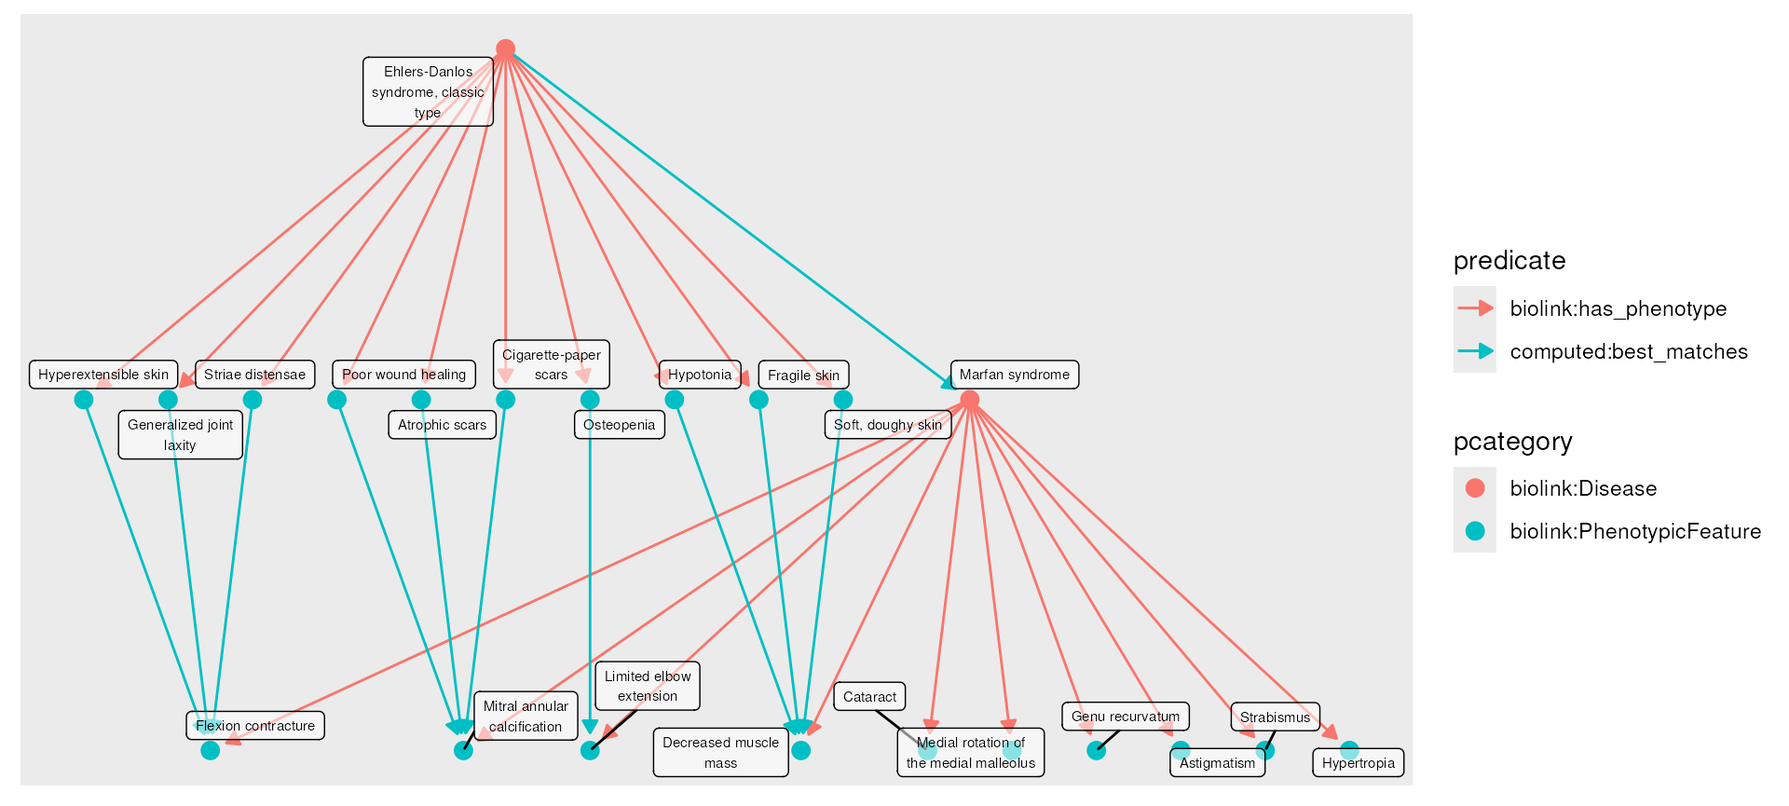
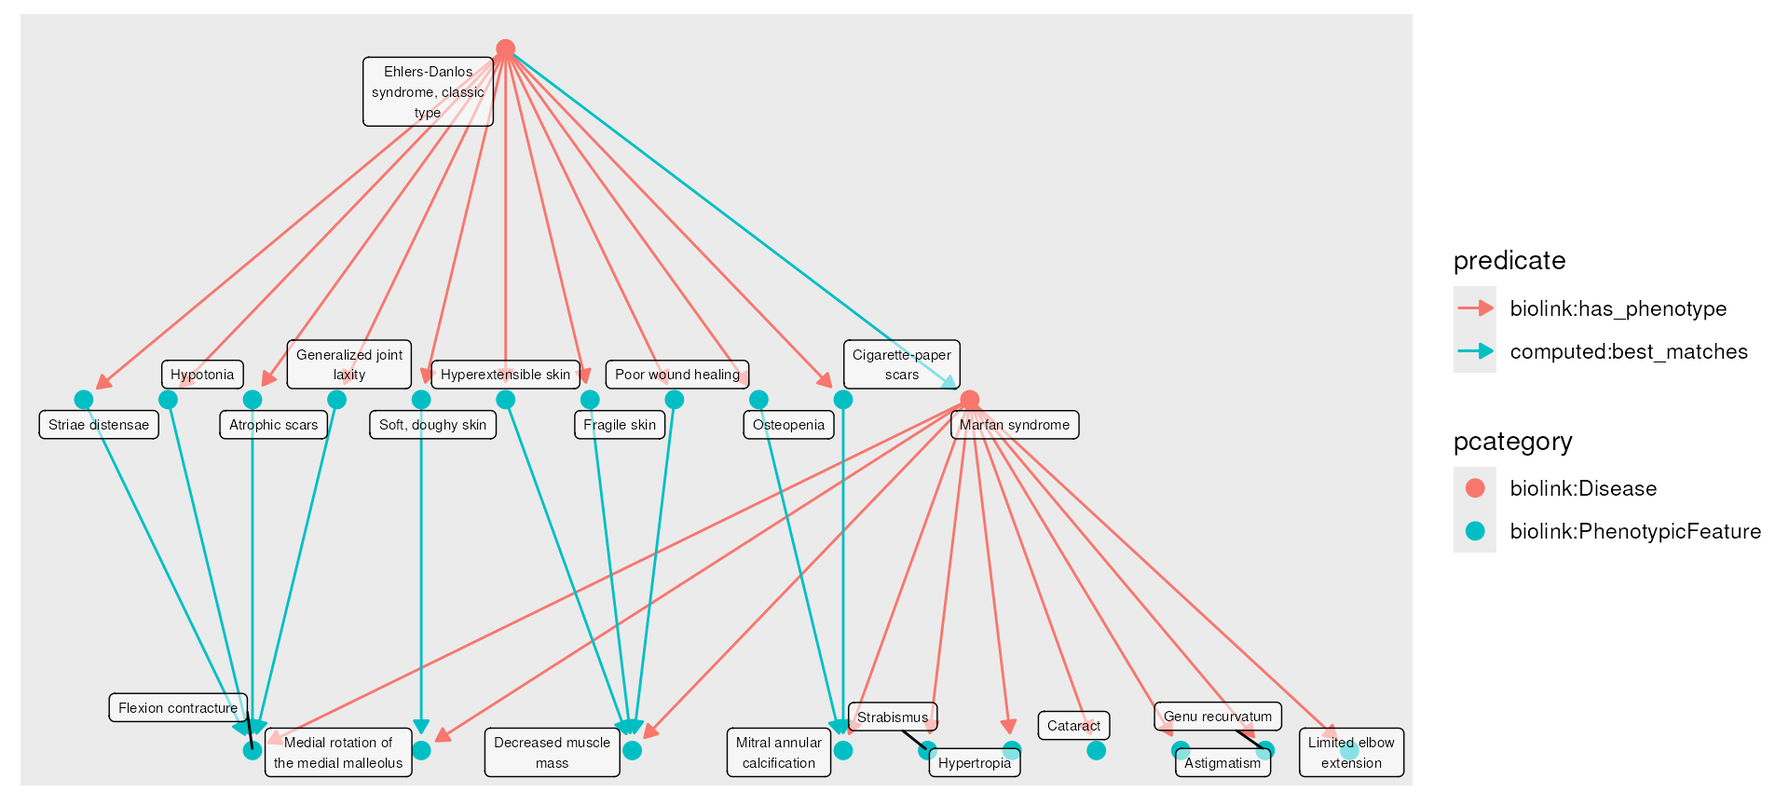
Deploying to gh-pages from @ monarch-initiative/monarchr@e125b6aafd9b1183b28d8fca9d9c85349e991785 🚀

Changed region(s): [[0.0, 0.4058, 0.7812, 0.9676]]

diff --git a/reference/monarch_semsim.html b/reference/monarch_semsim.html
@@ -61,7 +61,7 @@ https://monarchinitiative.org/explore#phenotype-explorer."><!-- mathjax --><scri
   <div class="col-md-9 contents">
     <div class="page-header">
     <h1>Semantic similarity mapping between two graphs</h1>
-    <small class="dont-index">Source: <a href="https://github.com/monarch-initiative/monarchr/blob/fix_self_loop_plot/R/monarch_semsim.R" class="external-link"><code>R/monarch_semsim.R</code></a></small>
+    <small class="dont-index">Source: <a href="https://github.com/monarch-initiative/monarchr/blob/main/R/monarch_semsim.R" class="external-link"><code>R/monarch_semsim.R</code></a></small>
     <div class="hidden name"><code>monarch_semsim.Rd</code></div>
     </div>
 
@@ -148,11 +148,11 @@ the best matches from the second graph to the first graph.</p>
 <span class="r-msg co"><span class="r-pr">#&gt;</span> Joining with `by = join_by(id, category, pcategory, name, description, synonym,</span>
 <span class="r-msg co"><span class="r-pr">#&gt;</span> iri, xref, namespace, provided_by)`</span>
 <span class="r-in"><span><span class="fu"><a href="https://rdrr.io/r/base/print.html" class="external-link">print</a></span><span class="op">(</span><span class="va">sim</span><span class="op">)</span></span></span>
-<span class="r-out co"><span class="r-pr">#&gt;</span> <span style="color: #949494;"># A tbl_graph: 133 nodes and 106 edges</span></span>
+<span class="r-out co"><span class="r-pr">#&gt;</span> <span style="color: #949494;"># A tbl_graph: 135 nodes and 106 edges</span></span>
 <span class="r-out co"><span class="r-pr">#&gt;</span> <span style="color: #949494;">#</span></span>
-<span class="r-out co"><span class="r-pr">#&gt;</span> <span style="color: #949494;"># A directed multigraph with 39 components</span></span>
+<span class="r-out co"><span class="r-pr">#&gt;</span> <span style="color: #949494;"># A directed multigraph with 41 components</span></span>
 <span class="r-out co"><span class="r-pr">#&gt;</span> <span style="color: #949494;">#</span></span>
-<span class="r-out co"><span class="r-pr">#&gt;</span> <span style="color: #949494;"># Node Data: 133 × 10 (active)</span></span>
+<span class="r-out co"><span class="r-pr">#&gt;</span> <span style="color: #949494;"># Node Data: 135 × 10 (active)</span></span>
 <span class="r-out co"><span class="r-pr">#&gt;</span>    id         pcategory name  description synonym category iri   xref  namespace</span>
 <span class="r-out co"><span class="r-pr">#&gt;</span>    <span style="color: #949494; font-style: italic;">&lt;chr&gt;</span>      <span style="color: #949494; font-style: italic;">&lt;chr&gt;</span>     <span style="color: #949494; font-style: italic;">&lt;chr&gt;</span> <span style="color: #949494; font-style: italic;">&lt;chr&gt;</span>       <span style="color: #949494; font-style: italic;">&lt;named&gt;</span> <span style="color: #949494; font-style: italic;">&lt;list&gt;</span>   <span style="color: #949494; font-style: italic;">&lt;chr&gt;</span> <span style="color: #949494; font-style: italic;">&lt;nam&gt;</span> <span style="color: #949494; font-style: italic;">&lt;chr&gt;</span>    </span>
 <span class="r-out co"><span class="r-pr">#&gt;</span> <span style="color: #BCBCBC;"> 1</span> MONDO:000… biolink:… Marf… A disorder… <span style="color: #949494;">&lt;chr&gt;</span>   <span style="color: #949494;">&lt;chr&gt;</span>    http… <span style="color: #949494;">&lt;chr&gt;</span> MONDO    </span>
@@ -165,15 +165,15 @@ the best matches from the second graph to the first graph.</p>
 <span class="r-out co"><span class="r-pr">#&gt;</span> <span style="color: #BCBCBC;"> 8</span> HP:0025586 biolink:… Hype… A type of … <span style="color: #949494;">&lt;lgl&gt;</span>   <span style="color: #949494;">&lt;chr&gt;</span>    http… <span style="color: #949494;">&lt;lgl&gt;</span> HP       </span>
 <span class="r-out co"><span class="r-pr">#&gt;</span> <span style="color: #BCBCBC;"> 9</span> HP:0000518 biolink:… Cata… A cataract… <span style="color: #949494;">&lt;chr&gt;</span>   <span style="color: #949494;">&lt;chr&gt;</span>    http… <span style="color: #949494;">&lt;chr&gt;</span> HP       </span>
 <span class="r-out co"><span class="r-pr">#&gt;</span> <span style="color: #BCBCBC;">10</span> HP:0008132 biolink:… Medi… <span style="color: #BB0000;">NA</span>          <span style="color: #949494;">&lt;lgl&gt;</span>   <span style="color: #949494;">&lt;chr&gt;</span>    http… <span style="color: #949494;">&lt;chr&gt;</span> HP       </span>
-<span class="r-out co"><span class="r-pr">#&gt;</span> <span style="color: #949494;"># ℹ 123 more rows</span></span>
+<span class="r-out co"><span class="r-pr">#&gt;</span> <span style="color: #949494;"># ℹ 125 more rows</span></span>
 <span class="r-out co"><span class="r-pr">#&gt;</span> <span style="color: #949494;"># ℹ 1 more variable: provided_by &lt;named list&gt;</span></span>
 <span class="r-out co"><span class="r-pr">#&gt;</span> <span style="color: #949494;">#</span></span>
 <span class="r-out co"><span class="r-pr">#&gt;</span> <span style="color: #949494;"># Edge Data: 106 × 8</span></span>
 <span class="r-out co"><span class="r-pr">#&gt;</span>    from    to subject    predicate             object   metric score ancestor_id</span>
 <span class="r-out co"><span class="r-pr">#&gt;</span>   <span style="color: #949494; font-style: italic;">&lt;int&gt;</span> <span style="color: #949494; font-style: italic;">&lt;int&gt;</span> <span style="color: #949494; font-style: italic;">&lt;chr&gt;</span>      <span style="color: #949494; font-style: italic;">&lt;chr&gt;</span>                 <span style="color: #949494; font-style: italic;">&lt;chr&gt;</span>    <span style="color: #949494; font-style: italic;">&lt;chr&gt;</span>  <span style="color: #949494; font-style: italic;">&lt;dbl&gt;</span> <span style="color: #949494; font-style: italic;">&lt;chr&gt;</span>      </span>
-<span class="r-out co"><span class="r-pr">#&gt;</span> <span style="color: #BCBCBC;">1</span>   106   117 HP:0000006 computed:best_matches HP:0001… ances…  4.10 HP:0000001 </span>
+<span class="r-out co"><span class="r-pr">#&gt;</span> <span style="color: #BCBCBC;">1</span>   106    39 HP:0000006 computed:best_matches HP:0001… ances…  4.10 HP:0000001 </span>
 <span class="r-out co"><span class="r-pr">#&gt;</span> <span style="color: #BCBCBC;">2</span>    83    83 HP:0000023 computed:best_matches HP:0000… ances… 18.2  HP:0000023 </span>
-<span class="r-out co"><span class="r-pr">#&gt;</span> <span style="color: #BCBCBC;">3</span>    23   113 HP:0000098 computed:best_matches HP:0000… ances…  5.96 UPHENO:006…</span>
+<span class="r-out co"><span class="r-pr">#&gt;</span> <span style="color: #BCBCBC;">3</span>    23   115 HP:0000098 computed:best_matches HP:0000… ances…  5.96 UPHENO:006…</span>
 <span class="r-out co"><span class="r-pr">#&gt;</span> <span style="color: #949494;"># ℹ 103 more rows</span></span>
 <span class="r-in"><span></span></span>
 <span class="r-in"><span><span class="co"># also inclue the unmatched targets</span></span></span>
@@ -204,7 +204,7 @@ the best matches from the second graph to the first graph.</p>
 <span class="r-out co"><span class="r-pr">#&gt;</span> <span style="color: #949494;"># Edge Data: 106 × 8</span></span>
 <span class="r-out co"><span class="r-pr">#&gt;</span>    from    to subject    predicate             object   metric score ancestor_id</span>
 <span class="r-out co"><span class="r-pr">#&gt;</span>   <span style="color: #949494; font-style: italic;">&lt;int&gt;</span> <span style="color: #949494; font-style: italic;">&lt;int&gt;</span> <span style="color: #949494; font-style: italic;">&lt;chr&gt;</span>      <span style="color: #949494; font-style: italic;">&lt;chr&gt;</span>                 <span style="color: #949494; font-style: italic;">&lt;chr&gt;</span>    <span style="color: #949494; font-style: italic;">&lt;chr&gt;</span>  <span style="color: #949494; font-style: italic;">&lt;dbl&gt;</span> <span style="color: #949494; font-style: italic;">&lt;chr&gt;</span>      </span>
-<span class="r-out co"><span class="r-pr">#&gt;</span> <span style="color: #BCBCBC;">1</span>   106   122 HP:0000006 computed:best_matches HP:0012… ances…  4.10 HP:0000001 </span>
+<span class="r-out co"><span class="r-pr">#&gt;</span> <span style="color: #BCBCBC;">1</span>   106    39 HP:0000006 computed:best_matches HP:0001… ances…  4.10 HP:0000001 </span>
 <span class="r-out co"><span class="r-pr">#&gt;</span> <span style="color: #BCBCBC;">2</span>    83    83 HP:0000023 computed:best_matches HP:0000… ances… 18.2  HP:0000023 </span>
 <span class="r-out co"><span class="r-pr">#&gt;</span> <span style="color: #BCBCBC;">3</span>    23   125 HP:0000098 computed:best_matches HP:0000… ances…  5.96 UPHENO:006…</span>
 <span class="r-out co"><span class="r-pr">#&gt;</span> <span style="color: #949494;"># ℹ 103 more rows</span></span>
@@ -216,7 +216,7 @@ the best matches from the second graph to the first graph.</p>
 <span class="r-in"><span><span class="fu"><a href="https://rdrr.io/r/base/print.html" class="external-link">print</a></span><span class="op">(</span><span class="va">sim</span><span class="op">)</span></span></span>
 <span class="r-out co"><span class="r-pr">#&gt;</span> <span style="color: #949494;"># A tbl_graph: 161 nodes and 173 edges</span></span>
 <span class="r-out co"><span class="r-pr">#&gt;</span> <span style="color: #949494;">#</span></span>
-<span class="r-out co"><span class="r-pr">#&gt;</span> <span style="color: #949494;"># A directed multigraph with 30 components</span></span>
+<span class="r-out co"><span class="r-pr">#&gt;</span> <span style="color: #949494;"># A directed multigraph with 28 components</span></span>
 <span class="r-out co"><span class="r-pr">#&gt;</span> <span style="color: #949494;">#</span></span>
 <span class="r-out co"><span class="r-pr">#&gt;</span> <span style="color: #949494;"># Node Data: 161 × 10 (active)</span></span>
 <span class="r-out co"><span class="r-pr">#&gt;</span>    id         pcategory name  description synonym category iri   xref  namespace</span>
@@ -237,7 +237,7 @@ the best matches from the second graph to the first graph.</p>
 <span class="r-out co"><span class="r-pr">#&gt;</span> <span style="color: #949494;"># Edge Data: 173 × 8</span></span>
 <span class="r-out co"><span class="r-pr">#&gt;</span>    from    to subject    predicate             object   metric score ancestor_id</span>
 <span class="r-out co"><span class="r-pr">#&gt;</span>   <span style="color: #949494; font-style: italic;">&lt;int&gt;</span> <span style="color: #949494; font-style: italic;">&lt;int&gt;</span> <span style="color: #949494; font-style: italic;">&lt;chr&gt;</span>      <span style="color: #949494; font-style: italic;">&lt;chr&gt;</span>                 <span style="color: #949494; font-style: italic;">&lt;chr&gt;</span>    <span style="color: #949494; font-style: italic;">&lt;chr&gt;</span>  <span style="color: #949494; font-style: italic;">&lt;dbl&gt;</span> <span style="color: #949494; font-style: italic;">&lt;chr&gt;</span>      </span>
-<span class="r-out co"><span class="r-pr">#&gt;</span> <span style="color: #BCBCBC;">1</span>   106   116 HP:0000006 computed:best_matches HP:0002… ances…  4.10 HP:0000001 </span>
+<span class="r-out co"><span class="r-pr">#&gt;</span> <span style="color: #BCBCBC;">1</span>   106   115 HP:0000006 computed:best_matches HP:0001… ances…  4.10 HP:0000001 </span>
 <span class="r-out co"><span class="r-pr">#&gt;</span> <span style="color: #BCBCBC;">2</span>    83    83 HP:0000023 computed:best_matches HP:0000… ances… 18.2  HP:0000023 </span>
 <span class="r-out co"><span class="r-pr">#&gt;</span> <span style="color: #BCBCBC;">3</span>    23   125 HP:0000098 computed:best_matches HP:0000… ances…  5.96 UPHENO:006…</span>
 <span class="r-out co"><span class="r-pr">#&gt;</span> <span style="color: #949494;"># ℹ 170 more rows</span></span>

diff --git a/articles/monarchr.html b/articles/monarchr.html
@@ -93,7 +93,7 @@ O’Neil</h4>
 <i>Jul-29-2024</i>
 </h4>
       
-      <small class="dont-index">Source: <a href="https://github.com/monarch-initiative/monarchr/blob/fix_self_loop_plot/vignettes/monarchr.Rmd" class="external-link"><code>vignettes/monarchr.Rmd</code></a></small>
+      <small class="dont-index">Source: <a href="https://github.com/monarch-initiative/monarchr/blob/main/vignettes/monarchr.Rmd" class="external-link"><code>vignettes/monarchr.Rmd</code></a></small>
       <div class="hidden name"><code>monarchr.Rmd</code></div>
 
     </div>
@@ -6244,42 +6244,6 @@ c(“DOID:14323”, “GARD:16535”, “ICD9:759.82”, “MESH:D008382”,
 </tr>
 <tr>
 <td style="text-align:left;">
-“HP:0001377”
-</td>
-<td style="text-align:left;">
-“biolink:PhenotypicFeature”
-</td>
-<td style="text-align:left;">
-“Limited elbow extension”
-</td>
-<td style="text-align:left;min-width: 300px; ">
-“Limited ability to straighten the arm at the elbow joint.”
-</td>
-<td style="text-align:left;min-width: 300px; ">
-c(“Decreased elbow extension”, “Elbow limited extension”, “Limitation of
-elbow extension”, “Limited elbow extension”, “Limited extension at
-elbows”, “Limited forearm extension”, “Restricted elbow extension”)
-</td>
-<td style="text-align:left;">
-c(“biolink:BiologicalEntity”, “biolink:DiseaseOrPhenotypicFeature”,
-“biolink:Entity”, “biolink:NamedThing”, “biolink:PhenotypicFeature”,
-“biolink:ThingWithTaxon”)
-</td>
-<td style="text-align:left;">
-“<a href="http://purl.obolibrary.org/obo/HP_0001377" class="external-link uri">http://purl.obolibrary.org/obo/HP_0001377</a>”
-</td>
-<td style="text-align:left;">
-“UMLS:C1867103”
-</td>
-<td style="text-align:left;">
-“HP”
-</td>
-<td style="text-align:left;">
-“phenio_nodes”
-</td>
-</tr>
-<tr>
-<td style="text-align:left;">
 “HP:0005136”
 </td>
 <td style="text-align:left;">
@@ -6388,6 +6352,40 @@ c(“biolink:BiologicalEntity”, “biolink:DiseaseOrPhenotypicFeature”,
 “phenio_nodes”
 </td>
 </tr>
+<tr>
+<td style="text-align:left;">
+“HP:0008132”
+</td>
+<td style="text-align:left;">
+“biolink:PhenotypicFeature”
+</td>
+<td style="text-align:left;">
+“Medial rotation of the medial malleolus”
+</td>
+<td style="text-align:left;min-width: 300px; ">
+NA
+</td>
+<td style="text-align:left;min-width: 300px; ">
+NA
+</td>
+<td style="text-align:left;">
+c(“biolink:BiologicalEntity”, “biolink:DiseaseOrPhenotypicFeature”,
+“biolink:Entity”, “biolink:NamedThing”, “biolink:PhenotypicFeature”,
+“biolink:ThingWithTaxon”)
+</td>
+<td style="text-align:left;">
+“<a href="http://purl.obolibrary.org/obo/HP_0008132" class="external-link uri">http://purl.obolibrary.org/obo/HP_0008132</a>”
+</td>
+<td style="text-align:left;">
+“UMLS:C3805726”
+</td>
+<td style="text-align:left;">
+“HP”
+</td>
+<td style="text-align:left;">
+“phenio_nodes”
+</td>
+</tr>
 </tbody>
 </table>
 </div>
@@ -6438,7 +6436,7 @@ ancestor_id
 “computed:best_matches”
 </td>
 <td style="text-align:left;">
-“HP:0001377”
+“HP:0005136”
 </td>
 <td style="text-align:left;">
 “ancestor_information_content”
@@ -6464,7 +6462,7 @@ ancestor_id
 “computed:best_matches”
 </td>
 <td style="text-align:left;">
-“HP:0001371”
+“HP:0003199”
 </td>
 <td style="text-align:left;">
 “ancestor_information_content”
@@ -6490,7 +6488,7 @@ ancestor_id
 “computed:best_matches”
 </td>
 <td style="text-align:left;">
-“HP:0003199”
+“HP:0008132”
 </td>
 <td style="text-align:left;">
 “ancestor_information_content”
@@ -6507,7 +6505,7 @@ ancestor_id
 4
 </td>
 <td style="text-align:left;">
-16
+15
 </td>
 <td style="text-align:left;">
 “HP:0001030”
@@ -6533,7 +6531,7 @@ ancestor_id
 10
 </td>
 <td style="text-align:left;">
-14
+15
 </td>
 <td style="text-align:left;">
 “HP:0001058”
@@ -6542,7 +6540,7 @@ ancestor_id
 “computed:best_matches”
 </td>
 <td style="text-align:left;">
-“HP:0005136”
+“HP:0003199”
 </td>
 <td style="text-align:left;">
 “ancestor_information_content”
@@ -6559,7 +6557,7 @@ ancestor_id
 5
 </td>
 <td style="text-align:left;">
-15
+14
 </td>
 <td style="text-align:left;">
 “HP:0001065”
@@ -6585,7 +6583,7 @@ ancestor_id
 6
 </td>
 <td style="text-align:left;">
-14
+13
 </td>
 <td style="text-align:left;">
 “HP:0001073”
@@ -6620,7 +6618,7 @@ ancestor_id
 “computed:best_matches”
 </td>
 <td style="text-align:left;">
-“HP:0005136”
+“HP:0001371”
 </td>
 <td style="text-align:left;">
 “ancestor_information_content”
@@ -6637,7 +6635,7 @@ ancestor_id
 11
 </td>
 <td style="text-align:left;">
-16
+14
 </td>
 <td style="text-align:left;">
 “HP:0001252”
@@ -6646,7 +6644,7 @@ ancestor_id
 “computed:best_matches”
 </td>
 <td style="text-align:left;">
-“HP:0003199”
+“HP:0001371”
 </td>
 <td style="text-align:left;">
 “ancestor_information_content”
@@ -6663,7 +6661,7 @@ ancestor_id
 8
 </td>
 <td style="text-align:left;">
-15
+14
 </td>
 <td style="text-align:left;">
 “HP:0002761”

diff --git a/reference/monarch_engine.html b/reference/monarch_engine.html
@@ -60,7 +60,7 @@ graph objects."><!-- mathjax --><script src="https://cdnjs.cloudflare.com/ajax/l
   <div class="col-md-9 contents">
     <div class="page-header">
     <h1>Create a knowledge graph engine object backed by the public Monarch Neo4j instance</h1>
-    <small class="dont-index">Source: <a href="https://github.com/monarch-initiative/monarchr/blob/fix_self_loop_plot/R/monarch_engine.R" class="external-link"><code>R/monarch_engine.R</code></a></small>
+    <small class="dont-index">Source: <a href="https://github.com/monarch-initiative/monarchr/blob/main/R/monarch_engine.R" class="external-link"><code>R/monarch_engine.R</code></a></small>
     <div class="hidden name"><code>monarch_engine.Rd</code></div>
     </div>
 

diff --git a/reference/summarize_neighborhood.html b/reference/summarize_neighborhood.html
@@ -63,7 +63,7 @@ graph's collective neighborhood in the larger KG."><!-- mathjax --><script src="
   <div class="col-md-9 contents">
     <div class="page-header">
     <h1>Summarize neighborhood</h1>
-    <small class="dont-index">Source: <a href="https://github.com/monarch-initiative/monarchr/blob/fix_self_loop_plot/R/summarize_neighborhood.R" class="external-link"><code>R/summarize_neighborhood.R</code></a></small>
+    <small class="dont-index">Source: <a href="https://github.com/monarch-initiative/monarchr/blob/main/R/summarize_neighborhood.R" class="external-link"><code>R/summarize_neighborhood.R</code></a></small>
     <div class="hidden name"><code>summarize_neighborhood.Rd</code></div>
     </div>
 

diff --git a/reference/monarch_search.html b/reference/monarch_search.html
@@ -61,7 +61,7 @@ It returns nodes (no edges) from the Monarch KG, fetched via an instance of mona
   <div class="col-md-9 contents">
     <div class="page-header">
     <h1>Search for KG nodes using the Monarch Initiative search API</h1>
-    <small class="dont-index">Source: <a href="https://github.com/monarch-initiative/monarchr/blob/fix_self_loop_plot/R/monarch_search.R" class="external-link"><code>R/monarch_search.R</code></a></small>
+    <small class="dont-index">Source: <a href="https://github.com/monarch-initiative/monarchr/blob/main/R/monarch_search.R" class="external-link"><code>R/monarch_search.R</code></a></small>
     <div class="hidden name"><code>monarch_search.Rd</code></div>
     </div>
 

diff --git a/reference/stitch_vectors.html b/reference/stitch_vectors.html
@@ -62,7 +62,7 @@ scalar strings"><!-- mathjax --><script src="https://cdnjs.cloudflare.com/ajax/l
   <div class="col-md-9 contents">
     <div class="page-header">
     <h1>Stitch Vectors</h1>
-    <small class="dont-index">Source: <a href="https://github.com/monarch-initiative/monarchr/blob/fix_self_loop_plot/R/cypher_query.neo4j_engine.R" class="external-link"><code>R/cypher_query.neo4j_engine.R</code></a></small>
+    <small class="dont-index">Source: <a href="https://github.com/monarch-initiative/monarchr/blob/main/R/cypher_query.neo4j_engine.R" class="external-link"><code>R/cypher_query.neo4j_engine.R</code></a></small>
     <div class="hidden name"><code>stitch_vectors.Rd</code></div>
     </div>
 

diff --git a/reference/normalize_categories.html b/reference/normalize_categories.html
@@ -60,7 +60,7 @@ It selects the most preferred category from each vector, or the first category i
   <div class="col-md-9 contents">
     <div class="page-header">
     <h1>Normalize Categories</h1>
-    <small class="dont-index">Source: <a href="https://github.com/monarch-initiative/monarchr/blob/fix_self_loop_plot/R/normalize_categories.R" class="external-link"><code>R/normalize_categories.R</code></a></small>
+    <small class="dont-index">Source: <a href="https://github.com/monarch-initiative/monarchr/blob/main/R/normalize_categories.R" class="external-link"><code>R/normalize_categories.R</code></a></small>
     <div class="hidden name"><code>normalize_categories.Rd</code></div>
     </div>
 

diff --git a/reference/neo4j_engine.html b/reference/neo4j_engine.html
@@ -61,7 +61,7 @@ graph objects.'><!-- mathjax --><script src="https://cdnjs.cloudflare.com/ajax/l
   <div class="col-md-9 contents">
     <div class="page-header">
     <h1>Create a knowledge graph engine object for a neo4j database</h1>
-    <small class="dont-index">Source: <a href="https://github.com/monarch-initiative/monarchr/blob/fix_self_loop_plot/R/neo4j_engine.R" class="external-link"><code>R/neo4j_engine.R</code></a></small>
+    <small class="dont-index">Source: <a href="https://github.com/monarch-initiative/monarchr/blob/main/R/neo4j_engine.R" class="external-link"><code>R/neo4j_engine.R</code></a></small>
     <div class="hidden name"><code>neo4j_engine.Rd</code></div>
     </div>
 

diff --git a/reference/fetch_nodes.html b/reference/fetch_nodes.html
@@ -63,7 +63,7 @@ set of condition expressions are supported, see details."><!-- mathjax --><scrip
   <div class="col-md-9 contents">
     <div class="page-header">
     <h1>Fetch nodes from a graph using a set of IDs or conditions</h1>
-    <small class="dont-index">Source: <a href="https://github.com/monarch-initiative/monarchr/blob/fix_self_loop_plot/R/fetch_nodes.R" class="external-link"><code>R/fetch_nodes.R</code></a></small>
+    <small class="dont-index">Source: <a href="https://github.com/monarch-initiative/monarchr/blob/main/R/fetch_nodes.R" class="external-link"><code>R/fetch_nodes.R</code></a></small>
     <div class="hidden name"><code>fetch_nodes.Rd</code></div>
     </div>
 

diff --git a/reference/grapes-in_list-grapes.html b/reference/grapes-in_list-grapes.html
@@ -60,7 +60,7 @@ that this is different than %in% which does not work with list columns in a natu
   <div class="col-md-9 contents">
     <div class="page-header">
     <h1>Check if an element is contained in list sub-elements</h1>
-    <small class="dont-index">Source: <a href="https://github.com/monarch-initiative/monarchr/blob/fix_self_loop_plot/R/in_list.R" class="external-link"><code>R/in_list.R</code></a></small>
+    <small class="dont-index">Source: <a href="https://github.com/monarch-initiative/monarchr/blob/main/R/in_list.R" class="external-link"><code>R/in_list.R</code></a></small>
     <div class="hidden name"><code>grapes-in_list-grapes.Rd</code></div>
     </div>
 

diff --git a/reference/expand.html b/reference/expand.html
@@ -62,7 +62,7 @@ engine is used; if the first parameter is a query graph, the most recent engine 
   <div class="col-md-9 contents">
     <div class="page-header">
     <h1>Fetch additional knowledge graph edges connected to a query graph</h1>
-    <small class="dont-index">Source: <a href="https://github.com/monarch-initiative/monarchr/blob/fix_self_loop_plot/R/expand.R" class="external-link"><code>R/expand.R</code></a></small>
+    <small class="dont-index">Source: <a href="https://github.com/monarch-initiative/monarchr/blob/main/R/expand.R" class="external-link"><code>R/expand.R</code></a></small>
     <div class="hidden name"><code>expand.Rd</code></div>
     </div>
 

diff --git a/articles/examples/alzheimers_phenotypes.html b/articles/examples/alzheimers_phenotypes.html
@@ -93,7 +93,7 @@ O’Neil</h4>
 <i>Jul-29-2024</i>
 </h4>
       
-      <small class="dont-index">Source: <a href="https://github.com/monarch-initiative/monarchr/blob/fix_self_loop_plot/vignettes/examples/alzheimers_phenotypes.Rmd" class="external-link"><code>vignettes/examples/alzheimers_phenotypes.Rmd</code></a></small>
+      <small class="dont-index">Source: <a href="https://github.com/monarch-initiative/monarchr/blob/main/vignettes/examples/alzheimers_phenotypes.Rmd" class="external-link"><code>vignettes/examples/alzheimers_phenotypes.Rmd</code></a></small>
       <div class="hidden name"><code>alzheimers_phenotypes.Rmd</code></div>
 
     </div>
